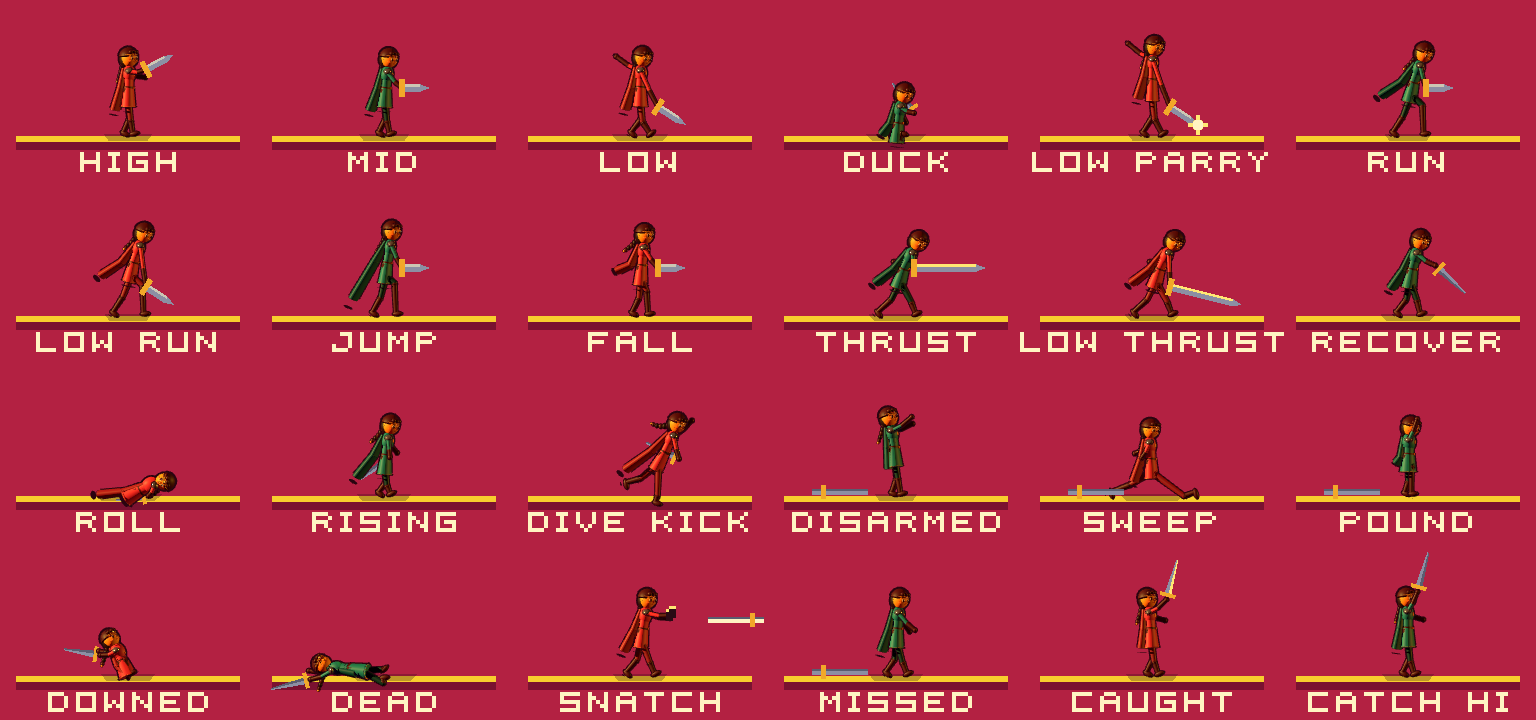
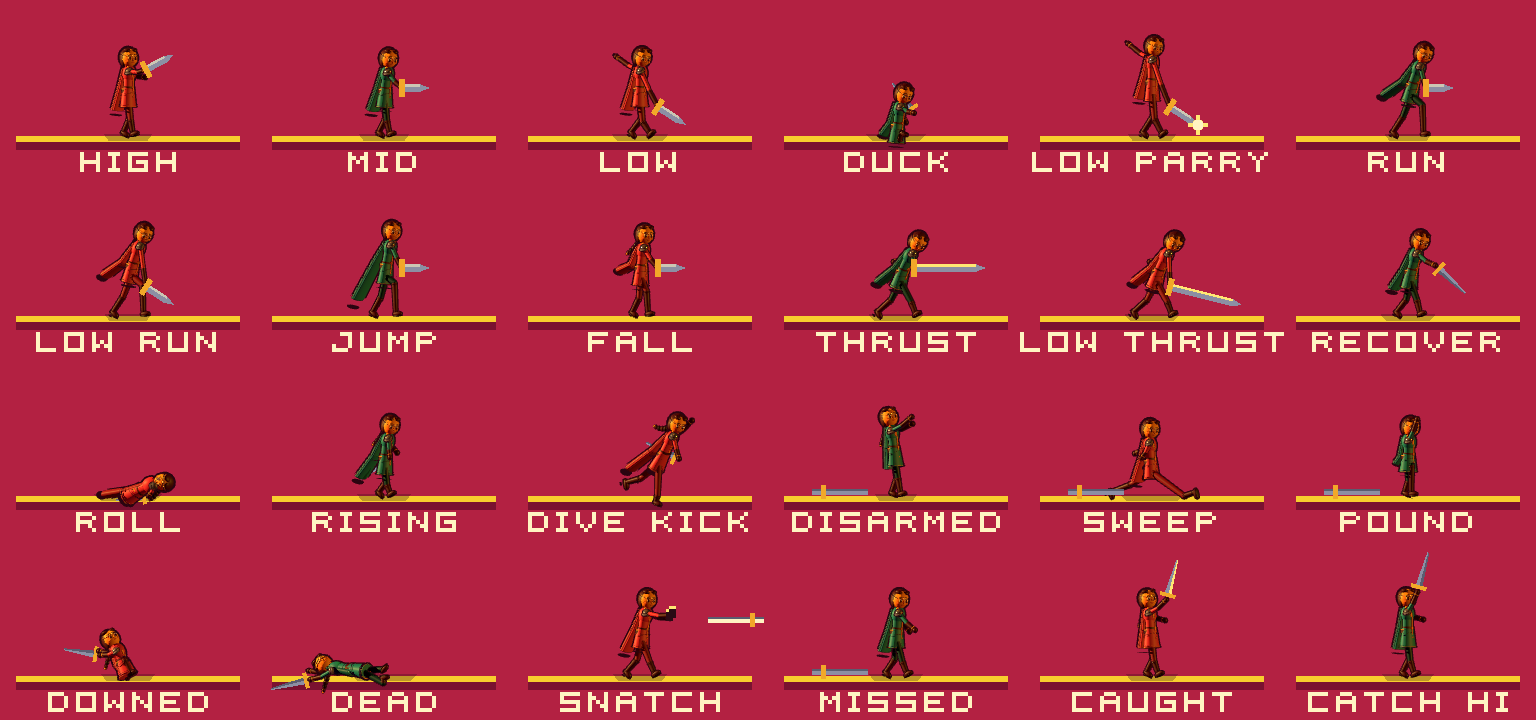
Bare the princess's forehead and give her the concept sheet's details
The hair was a cap over the whole crown and read as a helmet; it is now
parted and drawn back, with swept locks, fullness over the ears and at the
nape, so the brow band sits on a bare forehead. Added the concept's details
as shapes: V-neck and front trim, crest, double hem trim, sword belt,
pouch, lined cape with a clasp, layered pauldrons with rim and rivet, wrist
bands, boot cuffs, straps and soles, liner, brows and lips. ModelCostume
gains _yaw() so a figure can turn the camera further; the princess faces
the viewer more, as the concept draws her.

Claude-Session: https://claude.ai/code/session_01CS5kLXfHzuqFJNCkKoEvRT

diff --git a/docs/character.md b/docs/character.md
@@ -962,6 +962,19 @@ a duel, the leggings its darkest step), the trim, crest, buckle and band the
 accent, the hair and skin the look's. The concept's shield and glowing blade
 are not there: the sword is the shared 2D one, and the game has no shield.
 
+Her hair is parted in the middle and drawn back, so the forehead is bare
+under the brow band: a cap set back on the skull, a swept lock either side of
+the parting, fullness over the ears and at the nape. The first version wore
+the hair as a cap over the whole crown, and at any size it read as a helmet.
+The details are the concept's, each one a shape: a V of trim at the neck and
+a band of it down the front, a crest, a double trim at the hem, a belt and a
+slanted sword belt with buckles, a pouch, a cape lined in the tunic's colour
+with a clasp, pauldrons of a dome and a plate with a rim and a rivet, a gold
+band at each wrist, boots with a folded cuff, an ankle strap and a sole, and
+liner, brows and lips on the face. The camera turns further toward her than
+the base does (`_yaw()`), as the concept draws her, so the front shows rather
+than hiding behind the sword arm.
+
 The cape trails on the prince's cloak fields and lag, the braid is the
 heroine's pendulum, and she blinks; a hit, a doze or a death closes her eyes
 and a hit opens her mouth. The cape is two flared slabs with real depth: the
